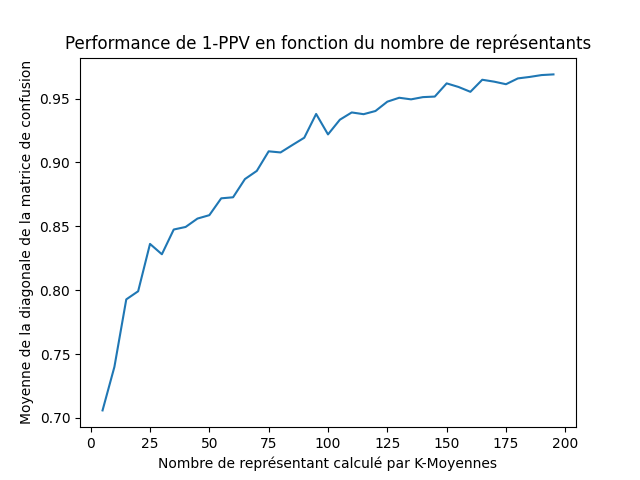
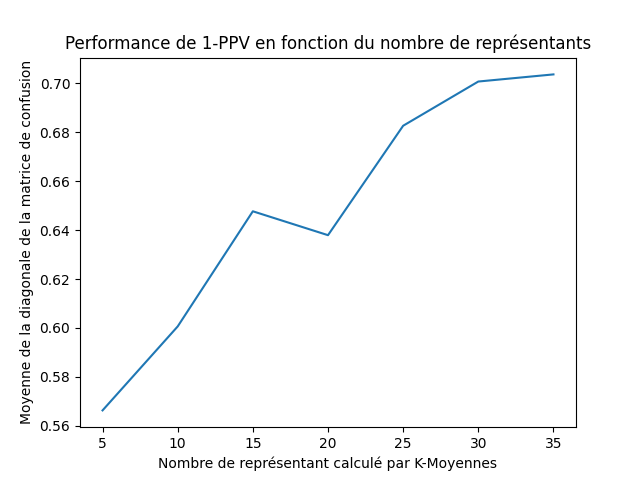
wip

diff --git a/src/classify_knn.py b/src/classify_knn.py
@@ -32,8 +32,10 @@ categorized_collection = {"coast": coast, "forest": forest, "street": street}
 
 if RELOAD_PARAMS:
     params = param_nd(categorized_collection, [
-                                               (extractor_mean, {'dimension': 1}),
-                                               (extractor_mean, {'dimension': 2}),
+                                               (extract_peak_hsv, {'subset_start': 5, 'dimension': 0}),
+                                               (extractor_mean, {'dimension': 1, 'base_function': skic.rgb2yuv}),
+                                               (extractor_mean, {'dimension': 2, 'base_function': skic.rgb2yuv}),
+                                               (extractor_mean, {'dimension': 1, 'base_function': skic.rgb2hsv}),
                                                (extractor_median, {'dimension': 2, }),
                                                (extractor_std, {'dimension': 0, }),
                                                (extractor_std, {'dimension': 1, }),
@@ -55,12 +57,12 @@ param_labels = ['0', '1','2','3','4','5','6','7','8','9','10','11','12']
 
 view_dims = (0,1,2)
 
-params = subclass(params, 'coast', subclass_param_threshold, param_idx=1, threshold=0.1)
+params = subclass(params, 'coast', subclass_param_threshold, param_idx=1, threshold=0.05)
 
 if PLOT_PERF_BY_N_REP:
     plot_knn_performance(params, 5, 200, save_path="../figures/knn-performance")
 
-class_representant = kmean_clustering(params, n_cluster=20)
+class_representant = kmean_clustering(params, n_cluster=30)
 kNN = KNNClassifier(n_neighbors=1)
 kNN.fit(class_representant)
 plot_sub_params(params, view_dims, param_labels, cluster_center=class_representant, title="012")
